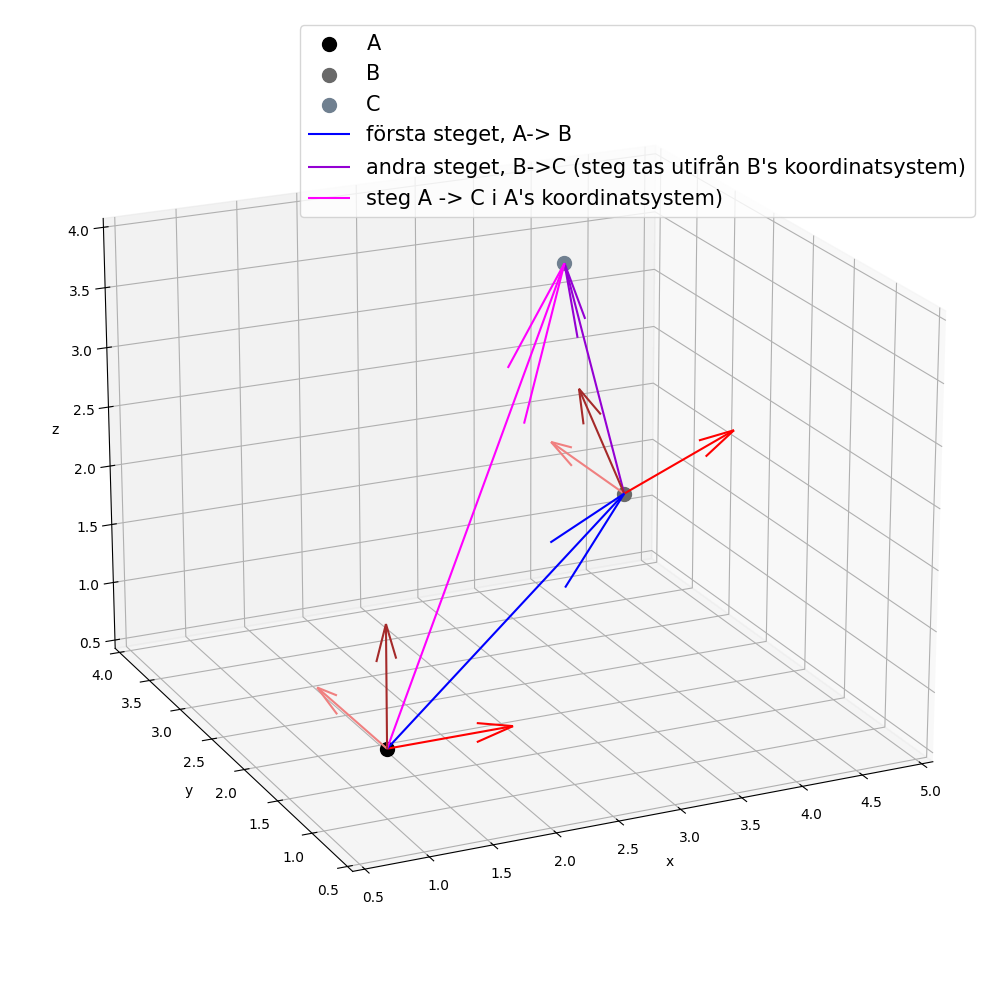
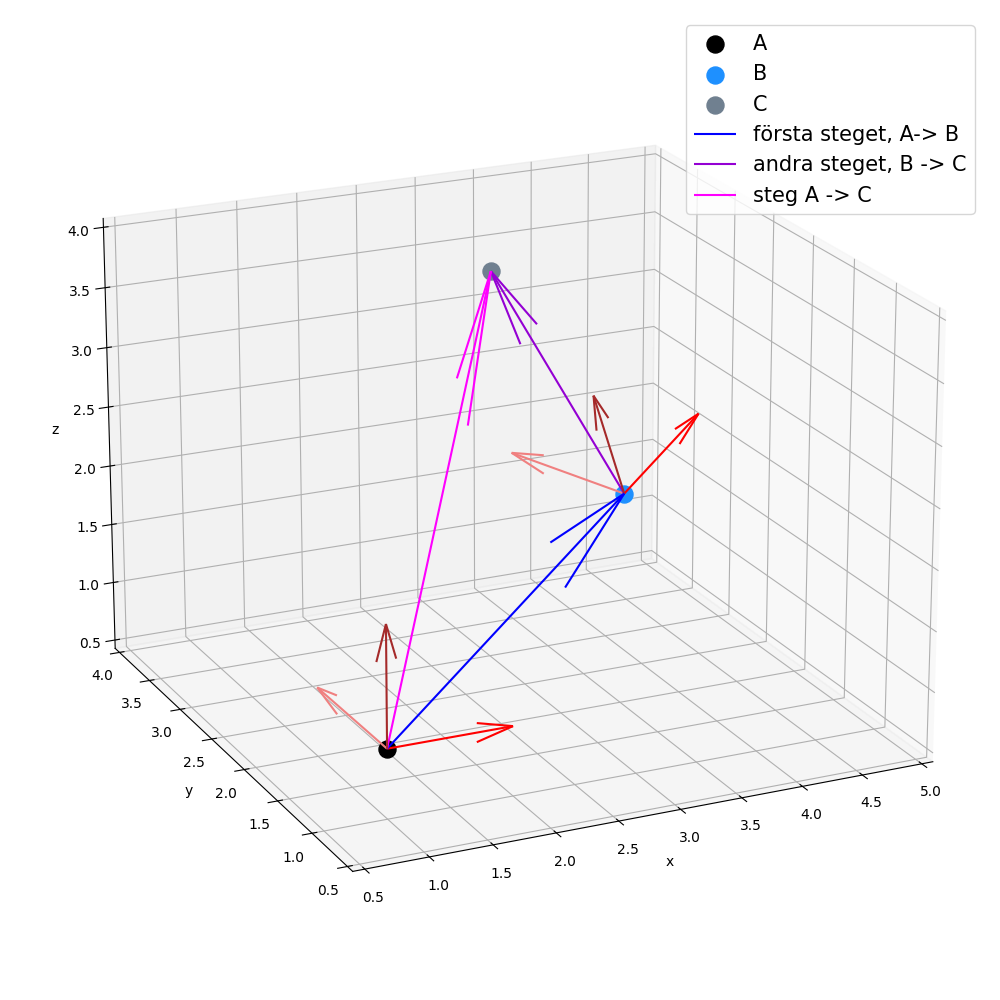
.

diff --git a/Martin/Gammalt_eller_inte_relevant/transformation_3d.py b/Martin/Gammalt_eller_inte_relevant/transformation_3d.py
@@ -1,4 +1,239 @@
-from imports import *
+# Genom att skriva "from imports import *" i nya filer kommer alla paket, konstanter och funktioner
+# från denna fil att importeras till den nya filen.
+
+import scipy.io
+from matplotlib.widgets import Slider
+from matplotlib.gridspec import GridSpec
+import numpy as np
+from numpy import random
+import matplotlib.pyplot as plt
+import time
+import pandas as pd
+from scipy.interpolate import interp1d
+from numpy import random
+from scipy.optimize import curve_fit
+import multiprocessing as mp
+import tkinter as tk
+from tkinter import simpledialog
+from numba import jit
+import json
+
+#   ----------------------------------------------------------------------
+#   KONSTANTER
+#   ----------------------------------------------------------------------
+
+pi = np.pi
+E_e = 0.511 * 10 ** 6  # eV
+r_e = np.sqrt(0.07941)  # sqrt(b): re2 = e4/Ee2 ≈ 0.07941 b, https://en.wikipedia.org/wiki/Gamma_ray_cross_section
+a_0 = 5.29177210903 * 10 ** (-11) * 10 ** (14)  # sqrt(b), bohr radius of hydrogen
+c = 3 * 10 ** 8
+
+radie_alpha = 1.2 * 10 ** (-15) * 4 ** (1 / 3)  # Radie alfapartikel i meter (Physics Handbook)
+
+# enhet u
+massa_H = 1
+massa_C = 12
+massa_N = 14
+massa_O = 16
+massa_Na = 23
+massa_Mg = 24.3
+massa_P = 31
+massa_S = 32
+massa_K = 39
+massa_Ca = 40
+
+# Sammansättning av vävnad, sida 71 tabeller radiofysik del 1 canvas RFA331.
+vävnad_sammansättning_vektor = np.array(
+    [10.2, 12.3 / massa_C, 3.5 / massa_N, 72.9 / massa_O, 0.08 / massa_Na, 0.02 / massa_Mg, 0.2 / massa_P,
+     0.5 / massa_S, 0.3 / massa_K, 0.007 / massa_Ca])
+
+# Atomic-Electron Binding Energies.pdf canvas RFA331.
+K_alpha_H = 0.0136 * 10 ** 3
+K_alpha_C = 0.2838 * 10 ** 3
+K_alpha_N = 0.4016 * 10 ** 3
+K_alpha_O = 0.5320 * 10 ** 3
+K_alpha_Na = 1.0721 * 10 ** 3
+K_alpha_Mg = 1.3050 * 10 ** 3
+K_alpha_P = 2.1455 * 10 ** 3
+K_alpha_S = 2.4720 * 10 ** 3
+K_alpha_K = 3.6074 * 10 ** 3
+K_alpha_Ca = 4.0381 * 10 ** 3
+
+K_alpha_vektor = np.array(
+    [K_alpha_H, K_alpha_C, K_alpha_N, K_alpha_O, K_alpha_Na, K_alpha_Mg, K_alpha_P, K_alpha_S, K_alpha_K, K_alpha_Ca])
+
+# Viktat medelvärde
+K_alpha = (1 / np.sum(vävnad_sammansättning_vektor)) * vävnad_sammansättning_vektor @ K_alpha_vektor.T
+# print(K_alpha)
+
+foton_energi_threshhold = K_alpha_H
+
+# Fluorescence and Coster-Kronig Yields, sida 9 tabeller radiofysik del 1 canvas RFA331.
+fluorescence_yield_H = 0
+fluorescence_yield_C = 0.0028
+fluorescence_yield_N = 0.0052
+fluorescence_yield_O = 0.0083
+fluorescence_yield_Na = 0.023
+fluorescence_yield_Mg = 0.030
+fluorescence_yield_P = 0.063
+fluorescence_yield_S = 0.078
+fluorescence_yield_K = 0.140
+fluorescence_yield_Ca = 0.163
+
+fluorescence_yield_vektor = np.array(
+    [fluorescence_yield_H, fluorescence_yield_C, fluorescence_yield_N, fluorescence_yield_O, fluorescence_yield_Na,
+     fluorescence_yield_Mg, fluorescence_yield_P, fluorescence_yield_S, fluorescence_yield_K, fluorescence_yield_Ca])
+
+# Viktat medelvärde.
+fluorescence_yield = (1 / np.sum(
+    vävnad_sammansättning_vektor)) * vävnad_sammansättning_vektor @ fluorescence_yield_vektor.T
+
+# Sidlängd på voxlarna i matriserna.
+voxel_sidlängd = 0.15  # cm
+
+Lu177_energi = [208_366, 112_950, 321_316, 249_674, 71_642, 136_725]  # Sönderfallsenergierna för Lu-177.
+Lu177_intensitet = [10.38, 6.2, 0.216, 0.2012, 0.1726,
+                    0.047]  # Sönderfallsintensitet i % för respektive energi. Från laraweb.
+Lu177_sannolikhet = np.cumsum(Lu177_intensitet) / np.sum(Lu177_intensitet)  # Kumulativa sannolikheten för sönderfall.
+
+At211_energi = [5.869, 5.2119, 5.1403, 4.9934, 4.895]  # Energi i MeV
+At211_intensitet = [41.78, 0.0039, 0.0011, 0.0004, 0.00004]  # Intensitet i % för energierna
+At211_sannolikhet = np.cumsum(At211_intensitet / np.sum(At211_intensitet))
+
+#   ----------------------------------------------------------------------
+#   Filer med Data
+#   ----------------------------------------------------------------------
+
+# tvärsnitt_file = '../given_data/Tvärsnittstabeller_Fotoner.xlsx'
+# attenueringsdata_file = '../given_data/Attenueringsdata.xlsx'
+# anatomidefinitioner_file = '../given_data/Anatomidefinitioner.xlsx'
+
+
+tvärsnitt_file = 'Tvärsnittstabeller_Fotoner.xlsx'
+attenueringsdata_file = 'Attenueringsdata.xlsx'
+anatomidefinitioner_file = 'Anatomidefinitioner.xlsx'
+
+mat_file = 'phantom_data.mat'
+
+
+#Inläsning för vscode:
+"""
+tvärsnitt_file = r'given_data/Tvärsnittstabeller_Fotoner.xlsx'
+attenueringsdata_file = r"given_data/Attenueringsdata.xlsx"
+anatomidefinitioner_file = r"given_data/Anatomidefinitioner.xlsx"
+
+mat_file = r"Martin/phantom_data.mat"
+"""
+
+
+#   ----------------------------------------------------------------------
+#   Funktioner
+#   ----------------------------------------------------------------------
+
+def plot_stuff(x_data, y_data, scatter, label_data,
+               marker='o', color='blue', x_label='x-label', y_label='y-label', title='1',
+               fig_size=(10, 10), symbol_size=100, font_size=30, alpha=1, line_width=10, x_lim=(0, 0), y_lim=(0, 0),
+               grid=False, x_scale='linear', y_scale='linear'):
+    """
+    Funktion som skapar 2D plottar. Används nog inte i koden.
+    """
+    fig = plt.figure(figsize=fig_size)
+
+    if x_lim != (0, 0) and y_lim != (0, 0):
+        plt.ylim(y_lim)
+        plt.xlim(x_lim)
+
+    if grid == True:
+        plt.grid()
+
+    if scatter == 0:
+        plt.plot(x_data, y_data, color=color, alpha=alpha, linewidth=line_width, label=label_data)
+    elif scatter == 1:
+        plt.scatter(x_data, y_data, marker=marker, color=color, alpha=alpha, s=symbol_size, label=label_data)
+    elif scatter == 2:
+        plt.plot(x_data, y_data, color=color, alpha=alpha, linewidth=line_width, label=label_data)
+        plt.scatter(x_data, y_data, marker=marker, color=color, alpha=alpha, s=symbol_size, label=label_data)
+    else:
+        for i in range(len(x_data)):
+            if scatter[i] == 1:
+                plt.scatter(x_data[i], y_data[i], marker=marker[i], color=color[i],
+                            alpha=alpha, s=symbol_size, label=label_data[i])
+            else:
+                plt.plot(x_data[i], y_data[i], color=color[i], alpha=alpha, linewidth=line_width, label=label_data[i])
+
+    font_size_ticks = font_size * 0.85
+
+    plt.xscale(x_scale)
+    plt.yscale(y_scale)
+
+    plt.xlabel(x_label, fontsize=font_size)
+    plt.ylabel(y_label, fontsize=font_size)
+
+    plt.xticks(fontsize=font_size_ticks)
+    plt.yticks(fontsize=font_size_ticks)
+
+    plt.title(title, fontsize=font_size)
+    plt.legend(fontsize=font_size_ticks)
+
+    return fig
+
+
+def end_time(start):
+    """
+    Funktion som tar tiden för hur lång tid beräkningarna tar.
+    """
+    end = time.time()
+    runtime = round((end - start), 1)
+    if runtime < 60:
+        print(f'Runtime: {runtime} seconds')
+    else:
+        print('Runtime: ' + str(round((runtime / 60), 1)) + ' minutes')
+
+
+"""
+def scatter_3d(array,
+               color='blue', x_label='x-label', y_label='y-label', z_label='z-label', title='1',
+               fig_size=(10, 10), symbol_size=100, font_size=30, alpha=1, x_lim=(0, 0), y_lim=(0, 0), z_lim=(0, 0),
+               grid=False, x_scale='linear', y_scale='linear', z_scale='linear'):
+
+    fig = plt.figure(figsize=fig_size)
+    ax = plt.axes(projection='3d')
+
+    # x = np.arange(array.shape[1])
+    # y = np.arange(array.shape[0])
+    # X, Y = np.meshgrid(x, y)
+
+    x, y, z = array>[:, 0], array[:, 1], array[:, 2]
+    ax.scatter(x,y,z, color=color, s = symbol_size, alpha = alpha)
+
+    if x_lim != (0, 0) and y_lim != (0, 0) and z_lim != (0, 0):
+        plt.xlim(x_lim)
+        plt.ylim(y_lim)
+        plt.zlim(z_lim)
+
+    if grid == True:
+        plt.grid()
+
+    font_size_ticks = font_size * 0.85
+
+    ax.set_xscale(x_scale)
+    ax.set_yscale(y_scale)
+    ax.set_zscale(z_scale)
+
+    ax.set_xlabel(x_label, fontsize=font_size)
+    ax.set_ylabel(y_label, fontsize=font_size)
+    ax.set_zlabel(z_label, fontsize=font_size)
+
+    ax.set_xticks(fontsize=font_size_ticks)
+    ax.set_yticks(fontsize=font_size_ticks)
+    ax.set_zticks(fontsize=font_size_ticks)
+
+    ax.set_title(title, fontsize=font_size)
+    ax.set_legend(fontsize=font_size_ticks)
+    plt.show()
+"""
+
+
 
 
 def transformera_koordinatsystem(steg_A_B, phi_A, theta_A, steg_B_C, phi_B, theta_B):

diff --git a/Martin/figurer_rapport.py b/Martin/figurer_rapport.py
@@ -275,7 +275,7 @@ if __name__ == "__main__":
     #   ----------------------------------------------------------------------
     #   INPUT
     #   ---------------------------------------------------------------------
-
+    """
     # startpunkt A
     x_start = 1
     y_start = 1
@@ -289,6 +289,26 @@ if __name__ == "__main__":
     theta_A = 3 * pi / 8
     phi_A = 1.5 * pi / 8
     steg_A_B = 1.5
+
+    # steg 2: Från B till C, enligt koordinatsystemet för B
+    theta_B = pi / 3
+    phi_B = pi / 3
+    steg_B_C = 2
+    """
+
+    # startpunkt A
+    x_start = 1
+    y_start = 1
+    z_start = 1
+
+    x_A = x_start
+    y_A = y_start
+    z_A = z_start
+
+    # steg 1: från A till B
+    theta_A = 3 * pi / 8
+    phi_A = 1 * pi / 8
+    steg_A_B = 3
 
     # steg 2: Från B till C, enligt koordinatsystemet för B
     theta_B = pi / 3
@@ -338,16 +358,16 @@ if __name__ == "__main__":
 
     font_size = 15
 
-    """
+
     fig = plt.figure(figsize=(10, 10))
     ax = plt.axes(projection='3d')
     ax.set_xlim([0.5, 5])
     ax.set_ylim([0.5, 4])
     ax.set_zlim([0.5, 4])
 
-    ax.scatter(x_start, y_A, z_A, label='A', color='black', s=100)
-    ax.scatter(x_start + dx_A_B, y_A + dy_A_B, z_A + dz_A_B, label='B', color='dimgrey', s=100)
-    ax.scatter(x_A + x_A_C, y_A + y_A_C, z_A + z_A_C, label='C', color='slategrey', s=100)
+    ax.scatter(x_start, y_A, z_A, label='A', color='black', s=150)
+    ax.scatter(x_start + dx_A_B, y_A + dy_A_B, z_A + dz_A_B, label='B', color='dodgerblue', s=150)
+    ax.scatter(x_A + x_A_C, y_A + y_A_C, z_A + z_A_C,label='C', color='slategrey', s=150)
 
     # Enhetsvektorer
     ax.quiver(x_A, y_A, z_A, 1, 0, 0, color='red')
@@ -367,8 +387,8 @@ if __name__ == "__main__":
     ax.quiver(x_A, y_A, z_A, dx_A_B, dy_A_B, dz_A_B, color='blue', label='första steget, A-> B')
     ax.quiver(x_A + dx_A_B, y_A + dy_A_B, z_A + dz_A_B, (x_A_C - dx_A_B), (y_A_C - dy_A_B), (z_A_C - dz_A_B),
               color='darkviolet',
-              label='andra steget, B->C (steg tas utifrån B\'s koordinatsystem)')
-    ax.quiver(x_A, y_A, z_A, x_A_C, y_A_C, z_A_C, color='magenta',label='steg A -> C i A\'s koordinatsystem)')
+              label='andra steget, B -> C')
+    ax.quiver(x_A, y_A, z_A, x_A_C, y_A_C, z_A_C, color='magenta',label='steg A -> C')
 
     ax.set_xlabel('x')
     ax.set_ylabel('y')
@@ -389,7 +409,7 @@ if __name__ == "__main__":
     ax.set_zlim([0.5, 4])
 
     ax.scatter(x_start, y_A, z_A, label='A', color='black', s=100)
-    ax.scatter(x_start + dx_A_B, y_A + dy_A_B, z_A + dz_A_B, label='B', color='dimgrey', s=100)
+    ax.scatter(x_start + dx_A_B, y_A + dy_A_B, z_A + dz_A_B, label='B', color='dodgerblue', s=100)
     ax.scatter(x_A + x_A_C, y_A + y_A_C, z_A + z_A_C, label='C', color='slategrey', s=100)
 
     # Enhetsvektorer
@@ -410,8 +430,8 @@ if __name__ == "__main__":
     ax.quiver(x_A, y_A, z_A, dx_A_B, dy_A_B, dz_A_B, color='blue', label='första steget, A-> B')
     ax.quiver(x_A + dx_A_B, y_A + dy_A_B, z_A + dz_A_B, (x_A_C - dx_A_B), (y_A_C - dy_A_B), (z_A_C - dz_A_B),
               color='darkviolet',
-              label='andra steget, B->C (steg tas utifrån B\'s koordinatsystem')
-    ax.quiver(x_A, y_A, z_A, x_A_C, y_A_C, z_A_C, color='magenta', label='steg A -> C i A\'s koordinatsystem')
+              label='andra steget, B -> C')
+    ax.quiver(x_A, y_A, z_A, x_A_C, y_A_C, z_A_C, color='magenta', label='steg A -> C')
 
     ax.set_xlabel('x')
     ax.set_ylabel('y')
@@ -529,7 +549,7 @@ if __name__ == "__main__":
     ax.legend(fontsize=font_size)
     plt.savefig('3d_fig')
     plt.show()
-
+"""
 
 
 

diff --git a/Martin/upg2_beta.py b/Martin/upg2_beta.py
@@ -1,0 +1,2 @@
+from imports import *
+
